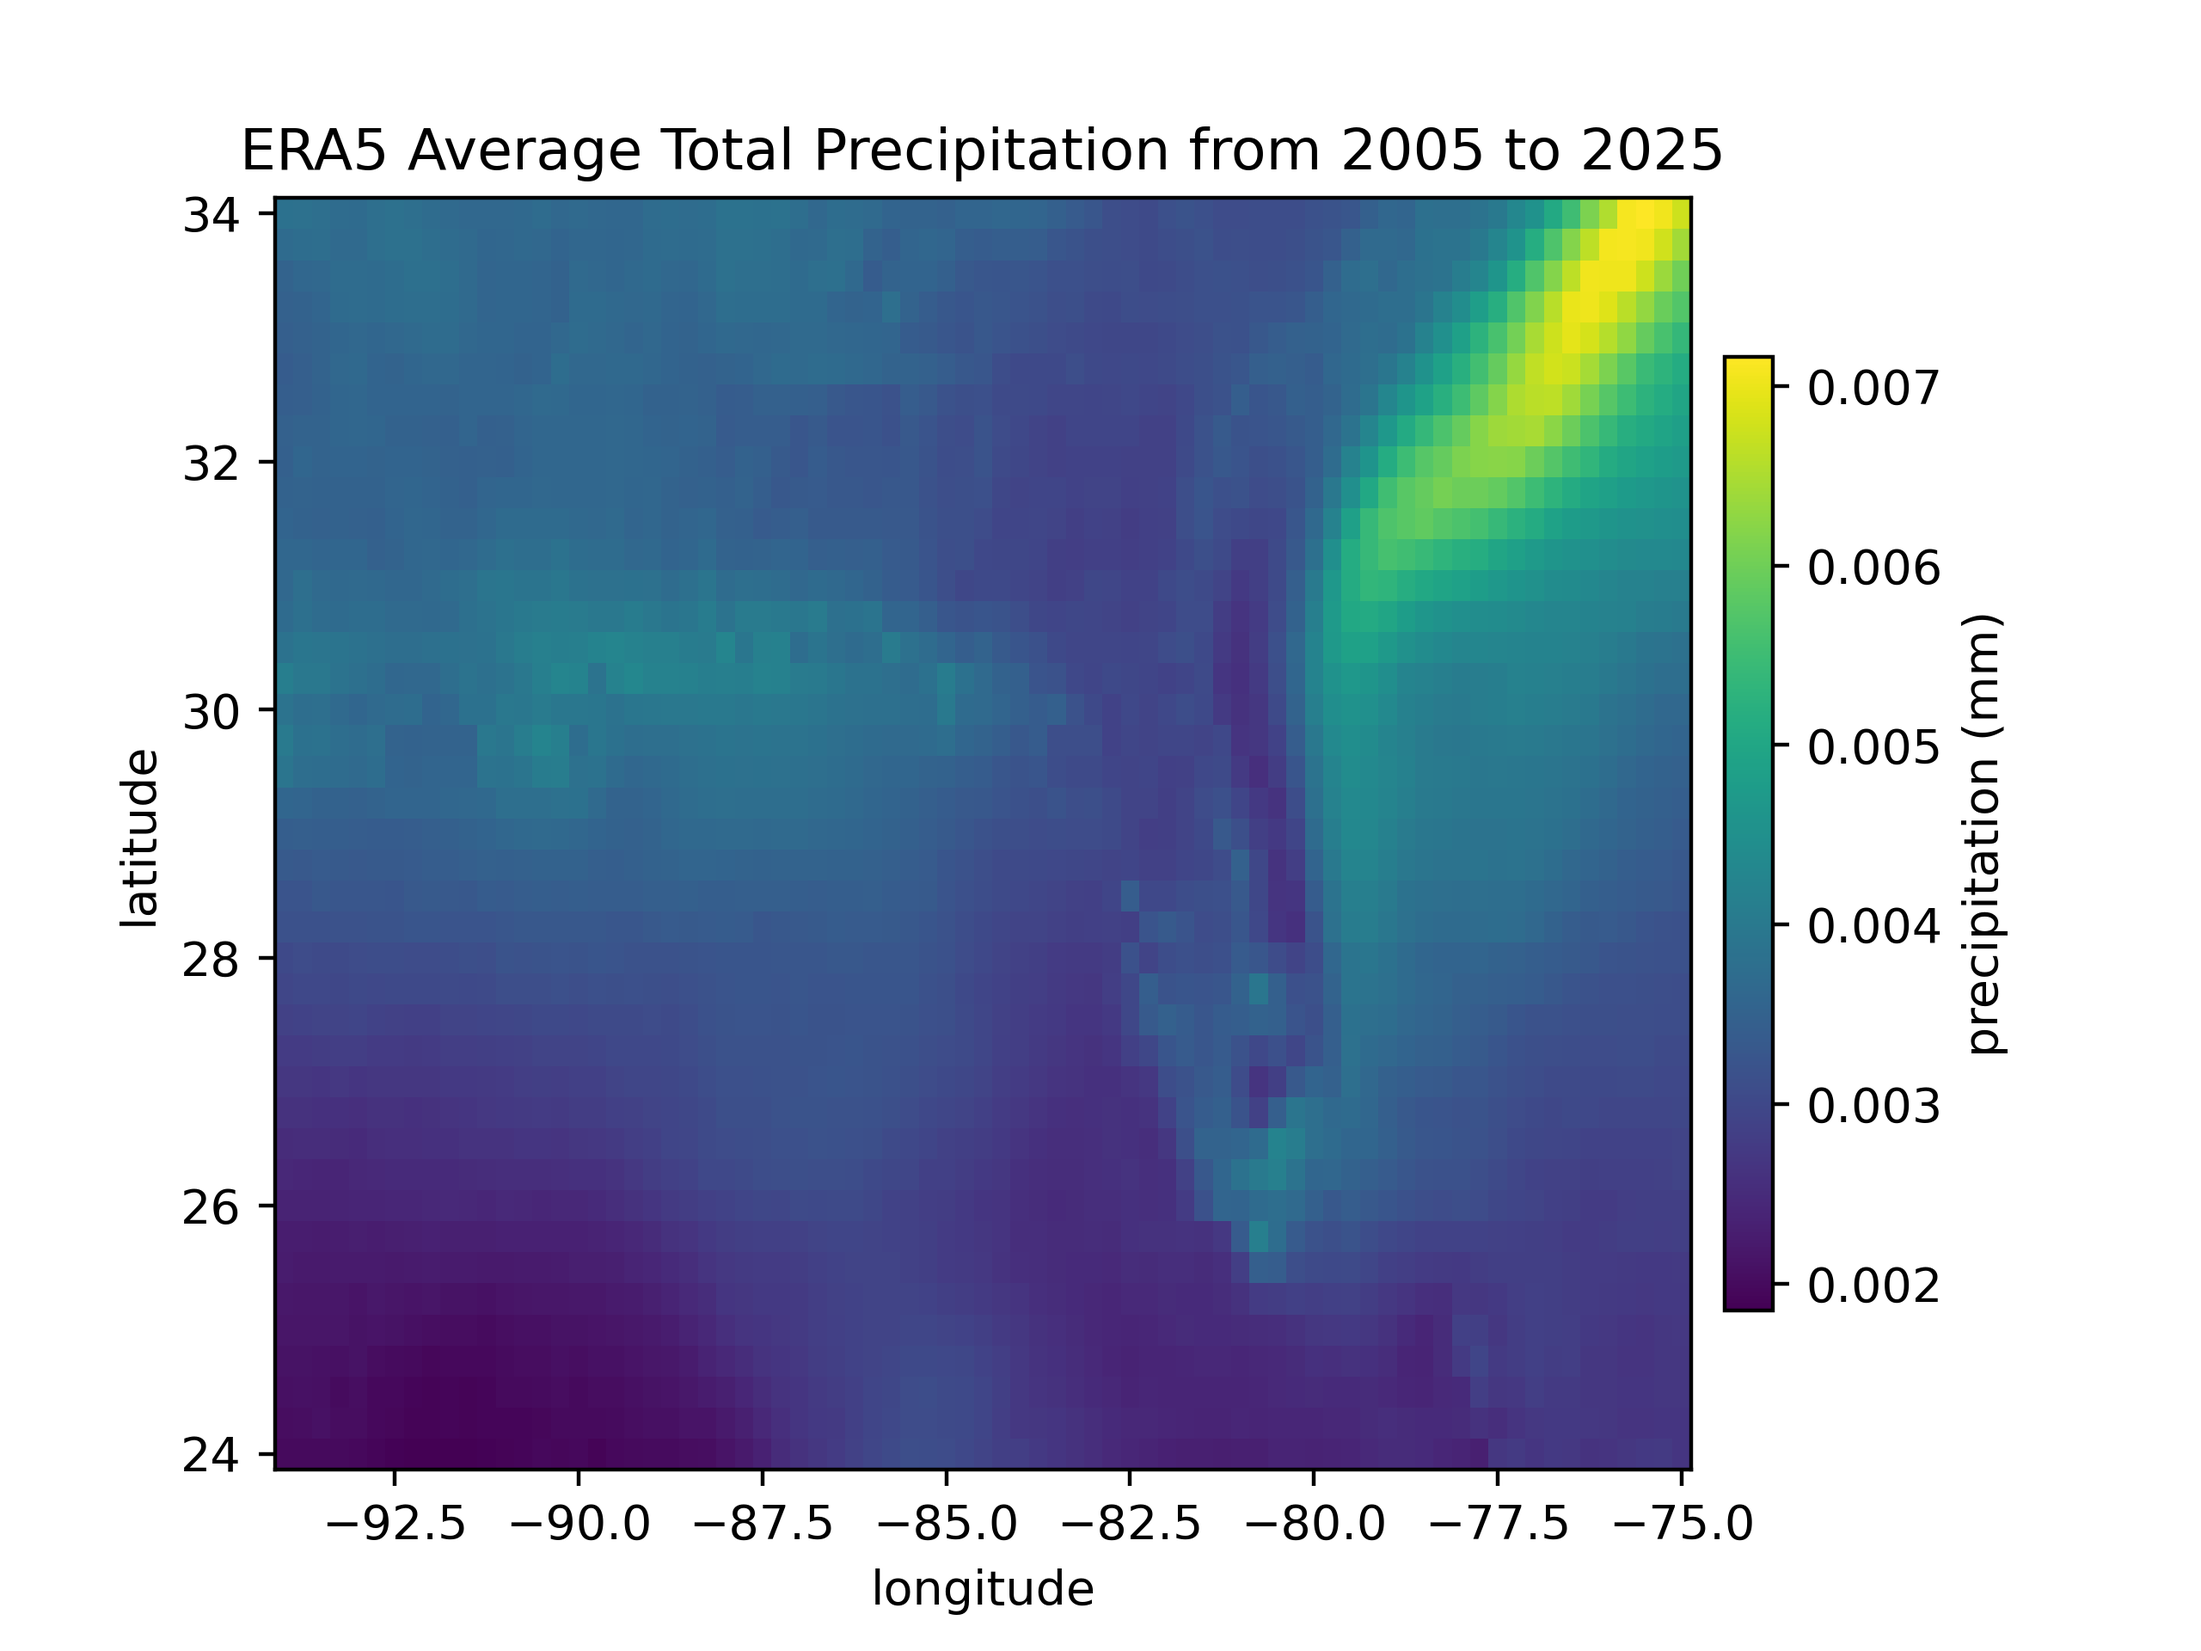
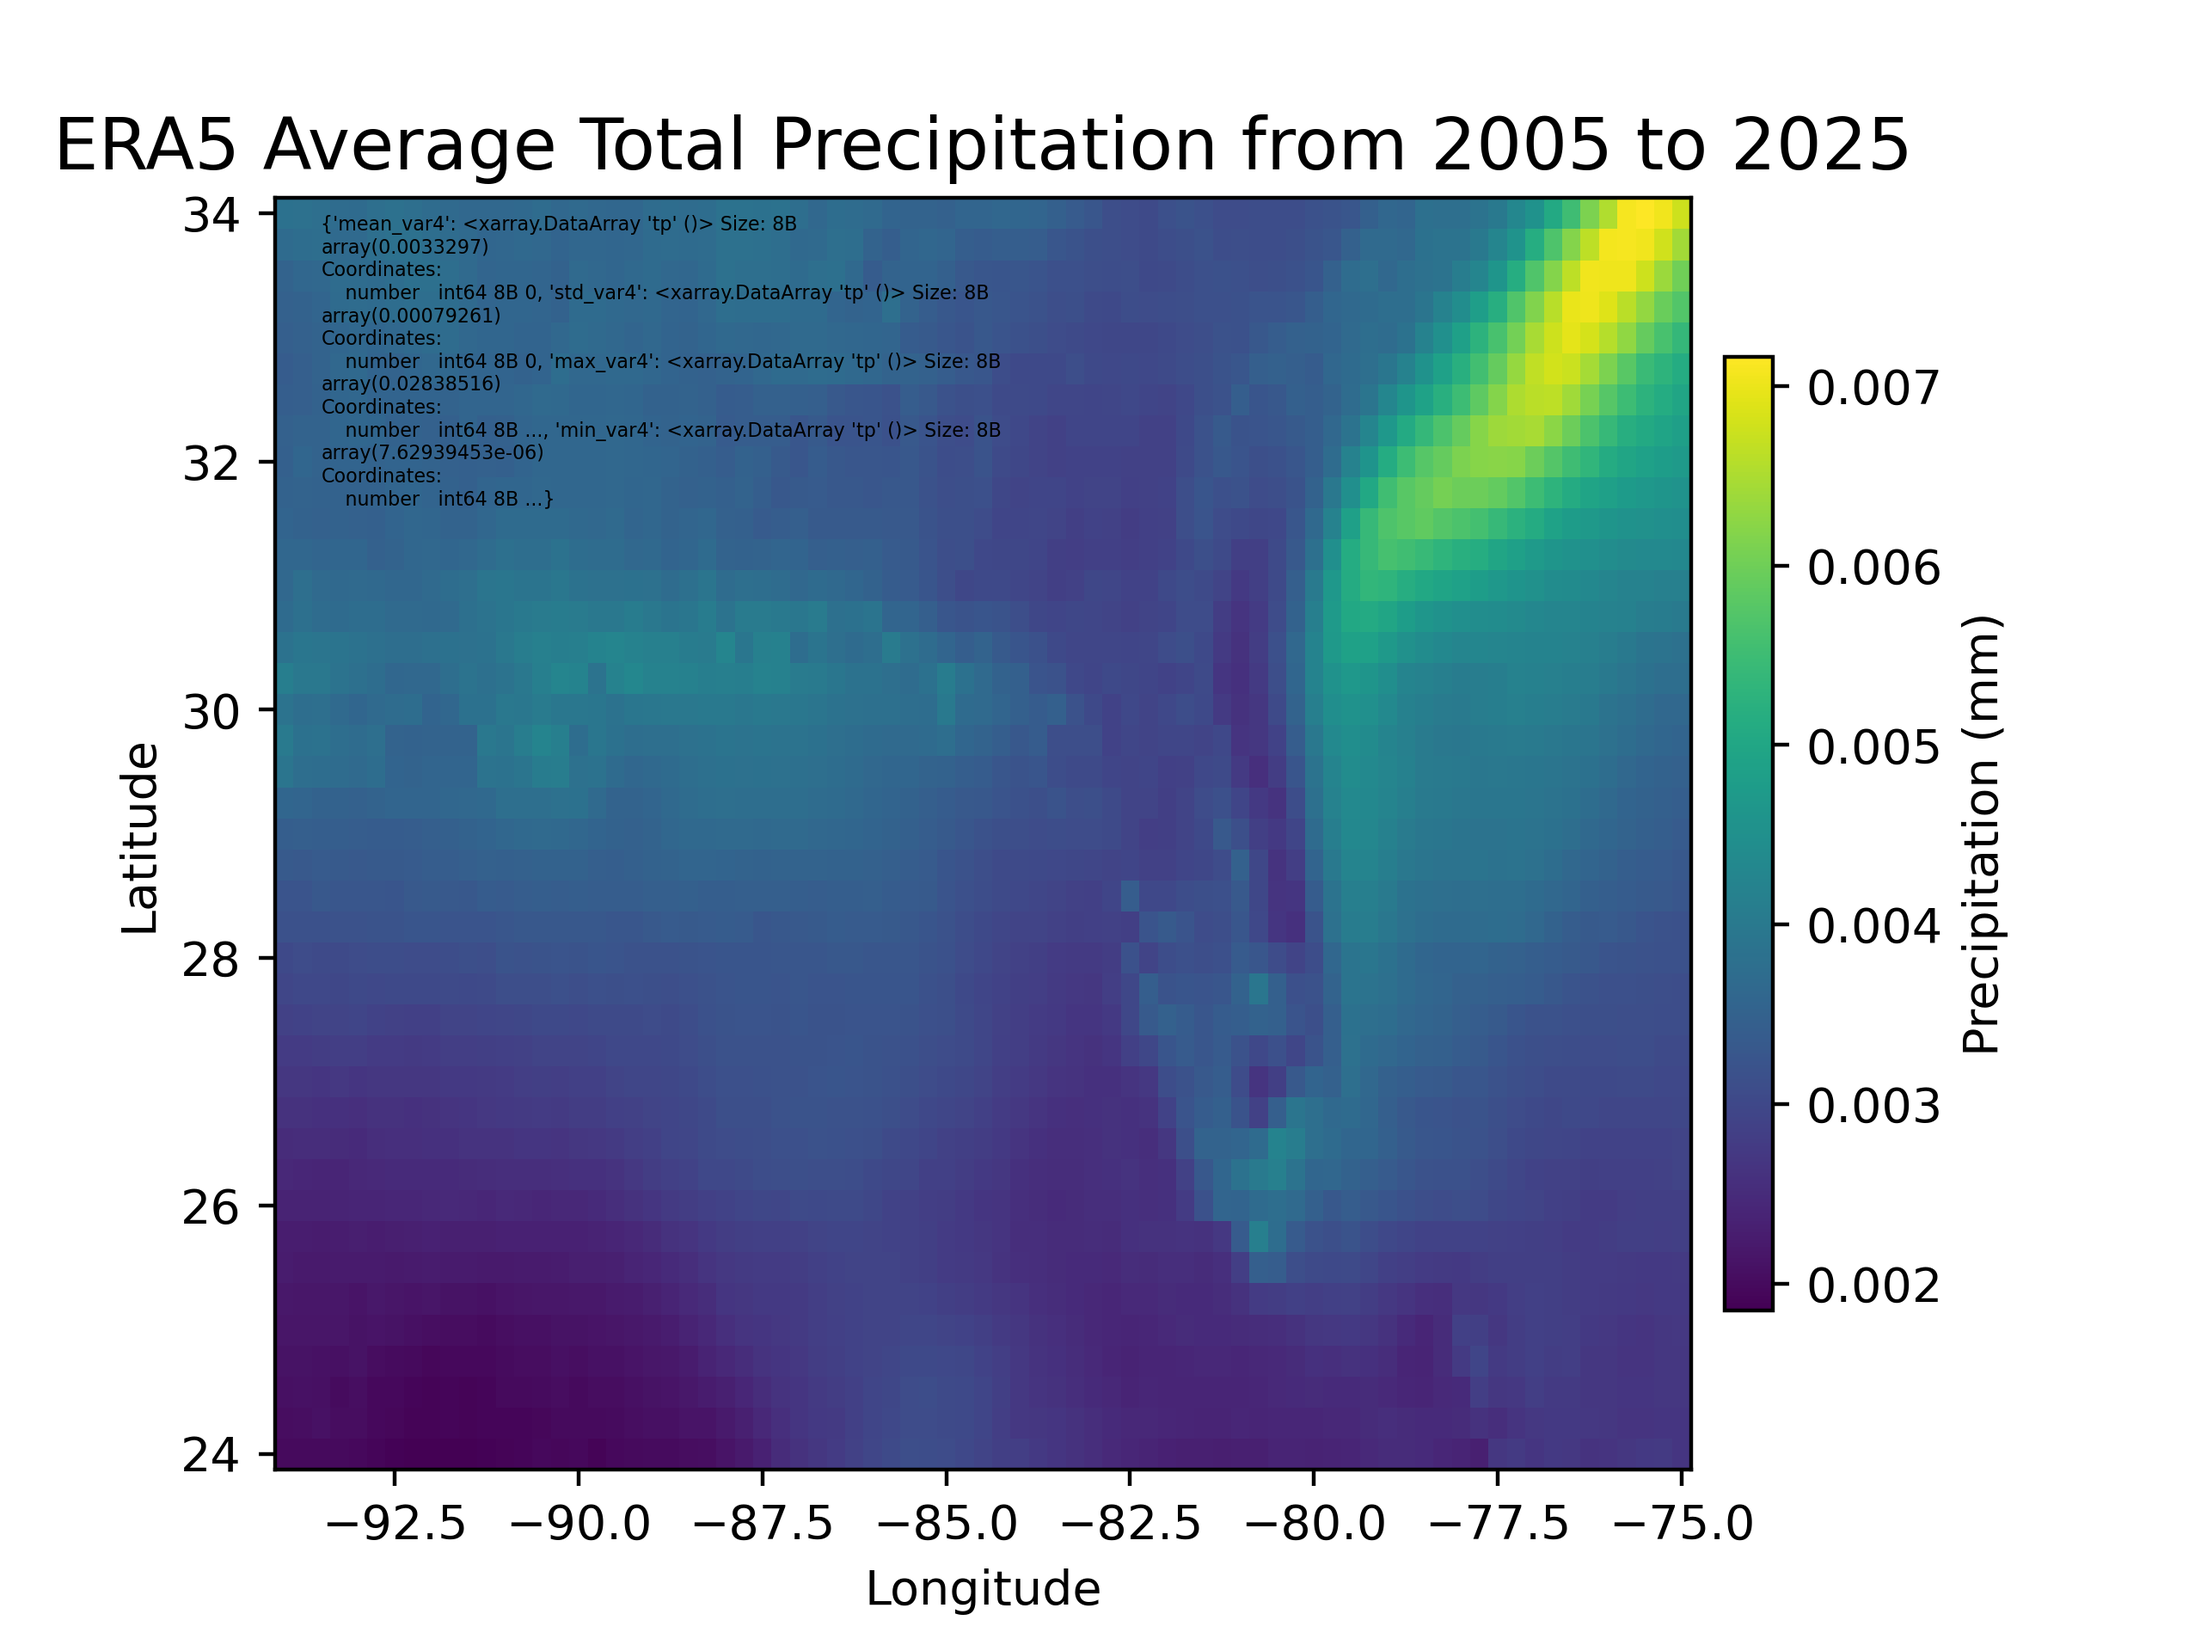
getting the annotate function to work, and fixed the stats, but now the stats on the figure are more information than desired.

diff --git a/IRP.py b/IRP.py
@@ -2,7 +2,6 @@ import pandas as pd
 import numpy as np
 import matplotlib.pyplot as plt
 import xarray as xr
-import matplotlib.patches as mpatches
 import sys 
 
 #path data and outpath data for figure--can probably copy code gridded data function.
@@ -14,6 +13,7 @@ fig_name2 = 'SPD1965-1985.png'
 fig_name3 = 'SPD1985-2005.png'
 fig_name4 = 'SPD2005-2025.png'
 
+#Functions being used.
 def import_era5(file_path='', var=''):
     ''' Import ERA5 gridded data '''
     ds = xr.open_dataset(file_path)
@@ -21,20 +21,19 @@ def import_era5(file_path='', var=''):
 
     return da
 
-def map(in_da, out_path='', out_name='',title_name=''):
+def map(in_da, out_path='', out_name='',title_name='',des_stats={}):
     ''' Plot map from 2D DataArray '''
     fig = plt.figure()
     ax = fig.add_subplot(111)
     lons = in_da.longitude
     lats = in_da.latitude
-    # plt.annotate(des_stats,8,9)
-    # plt.legend()
     image = plt.pcolormesh(lons, lats, in_da)
-    plt.xlabel('longitude')
-    plt.ylabel('latitude')
-    plt.title(title_name)
+    plt.xlabel('Longitude')
+    plt.ylabel('Latitude')
+    plt.title(title_name,fontsize=15)
     cb = plt.colorbar(image, shrink=.75, orientation="vertical", pad=.02)
-    cb.set_label('precipitation (mm)')
+    cb.set_label('Precipitation (mm)')
+    plt.annotate(des_stats,(-93.5,31.65),zorder=1000,fontsize=4)
     plt.savefig(out_path + out_name, dpi=400)
 
 #Creating 4 dataarrays of 20 years of precipitation to see how the plots change in 20 year intervals.
@@ -54,12 +53,6 @@ da_vt_mn2 = graph_2.mean(dim = 'valid_time')
 da_vt_mn3 = graph_3.mean(dim = 'valid_time')
 da_vt_mn4 = graph_4.mean(dim = 'valid_time')
 
-#mapping the 4 different dataarrays.
-map(da_vt_mn1, fig_path, fig_name1, 'ERA5 Average Total Precipitation from 1945 to 1965')
-map(da_vt_mn2, fig_path, fig_name2, 'ERA5 Average Total Precipitation from 1965 to 1985')
-map(da_vt_mn3, fig_path, fig_name3, 'ERA5 Average Total Precipitation from 1985 to 2005')
-map(da_vt_mn4, fig_path, fig_name4, 'ERA5 Average Total Precipitation from 2005 to 2025')
-
 #Weighting the latitude and longitude so the descriptive statistics are not thrown off.
 weights = np.cos(np.deg2rad(da_vt_mn1['latitude']))
 da_wghtd1 = da_vt_mn1.weighted(weights)
@@ -75,31 +68,41 @@ da_wghtd4 = da_vt_mn4.weighted(weights)
 
 #descriptive statistics of each 20 year interval
 des_stats1 = {
-mean_var : da_wghtd1.mean(),
-std_var : da_wghtd1.std(),
-max_var : da_wghtd1.max(),
-min_var : da_wghtd1.min()
+'mean_var' : da_wghtd1.mean(),
+'std_var' : da_wghtd1.std(),
+'max_var' : graph_1.max(),
+'min_var' : graph_1.min()
 }
 
-mean_var2 = da_wghtd2.mean()
-std_var2 = da_wghtd2.std()
-max_var2 = da_wghtd2.max()
-min_var2 = da_wghtd2.min()
+des_stats2 = {
+'mean_var2' : da_wghtd2.mean(),
+'std_var2' : da_wghtd2.std(),
+'max_var2' : graph_2.max(),
+'min_var2' : graph_2.min(),
+}
 
-mean_var3 = da_wghtd3.mean()
-std_var3 = da_wghtd3.std()
-max_var3 = da_wghtd3.max()
-min_var3 = da_wghtd3.min()
+des_stats3 = {
+'mean_var3' : da_wghtd3.mean(),
+'std_var3' : da_wghtd3.std(),
+'max_var3' : graph_3.max(),
+'min_var3' : graph_3.min()
+}
 
-mean_var4 = da_wghtd4.mean()
-std_var4 = da_wghtd4.std()
-max_var4 = da_wghtd4.max()
-min_var4 = da_wghtd4.min()
+des_stats4 = {
+'mean_var4' : da_wghtd4.mean(),
+'std_var4' : da_wghtd4.std(),
+'max_var4' : graph_4.max(),
+'min_var4' : graph_4.min()
+}
 
-print(mean_var,std_var,max_var,min_var)
-print(mean_var2,std_var2,max_var2,min_var2)
-print(mean_var3,std_var3,max_var3,min_var3)
-print(mean_var4,std_var4,max_var4,min_var4)
+print(des_stats1)
+print(des_stats2)
+print(des_stats3)
+print(des_stats4)
 
-'''cool idea: figure out how to put the descriptive stats as the legend on each graph.
-also would be cool to be able to label which des stats go to each graph.'''
+#mapping the 4 different dataarrays.
+map(da_vt_mn1, fig_path, fig_name1, 'ERA5 Average Total Precipitation from 1945 to 1965',des_stats=des_stats1)
+map(da_vt_mn2, fig_path, fig_name2, 'ERA5 Average Total Precipitation from 1965 to 1985',des_stats=des_stats2)
+map(da_vt_mn3, fig_path, fig_name3, 'ERA5 Average Total Precipitation from 1985 to 2005',des_stats=des_stats3)
+map(da_vt_mn4, fig_path, fig_name4, 'ERA5 Average Total Precipitation from 2005 to 2025',des_stats=des_stats4)
+
